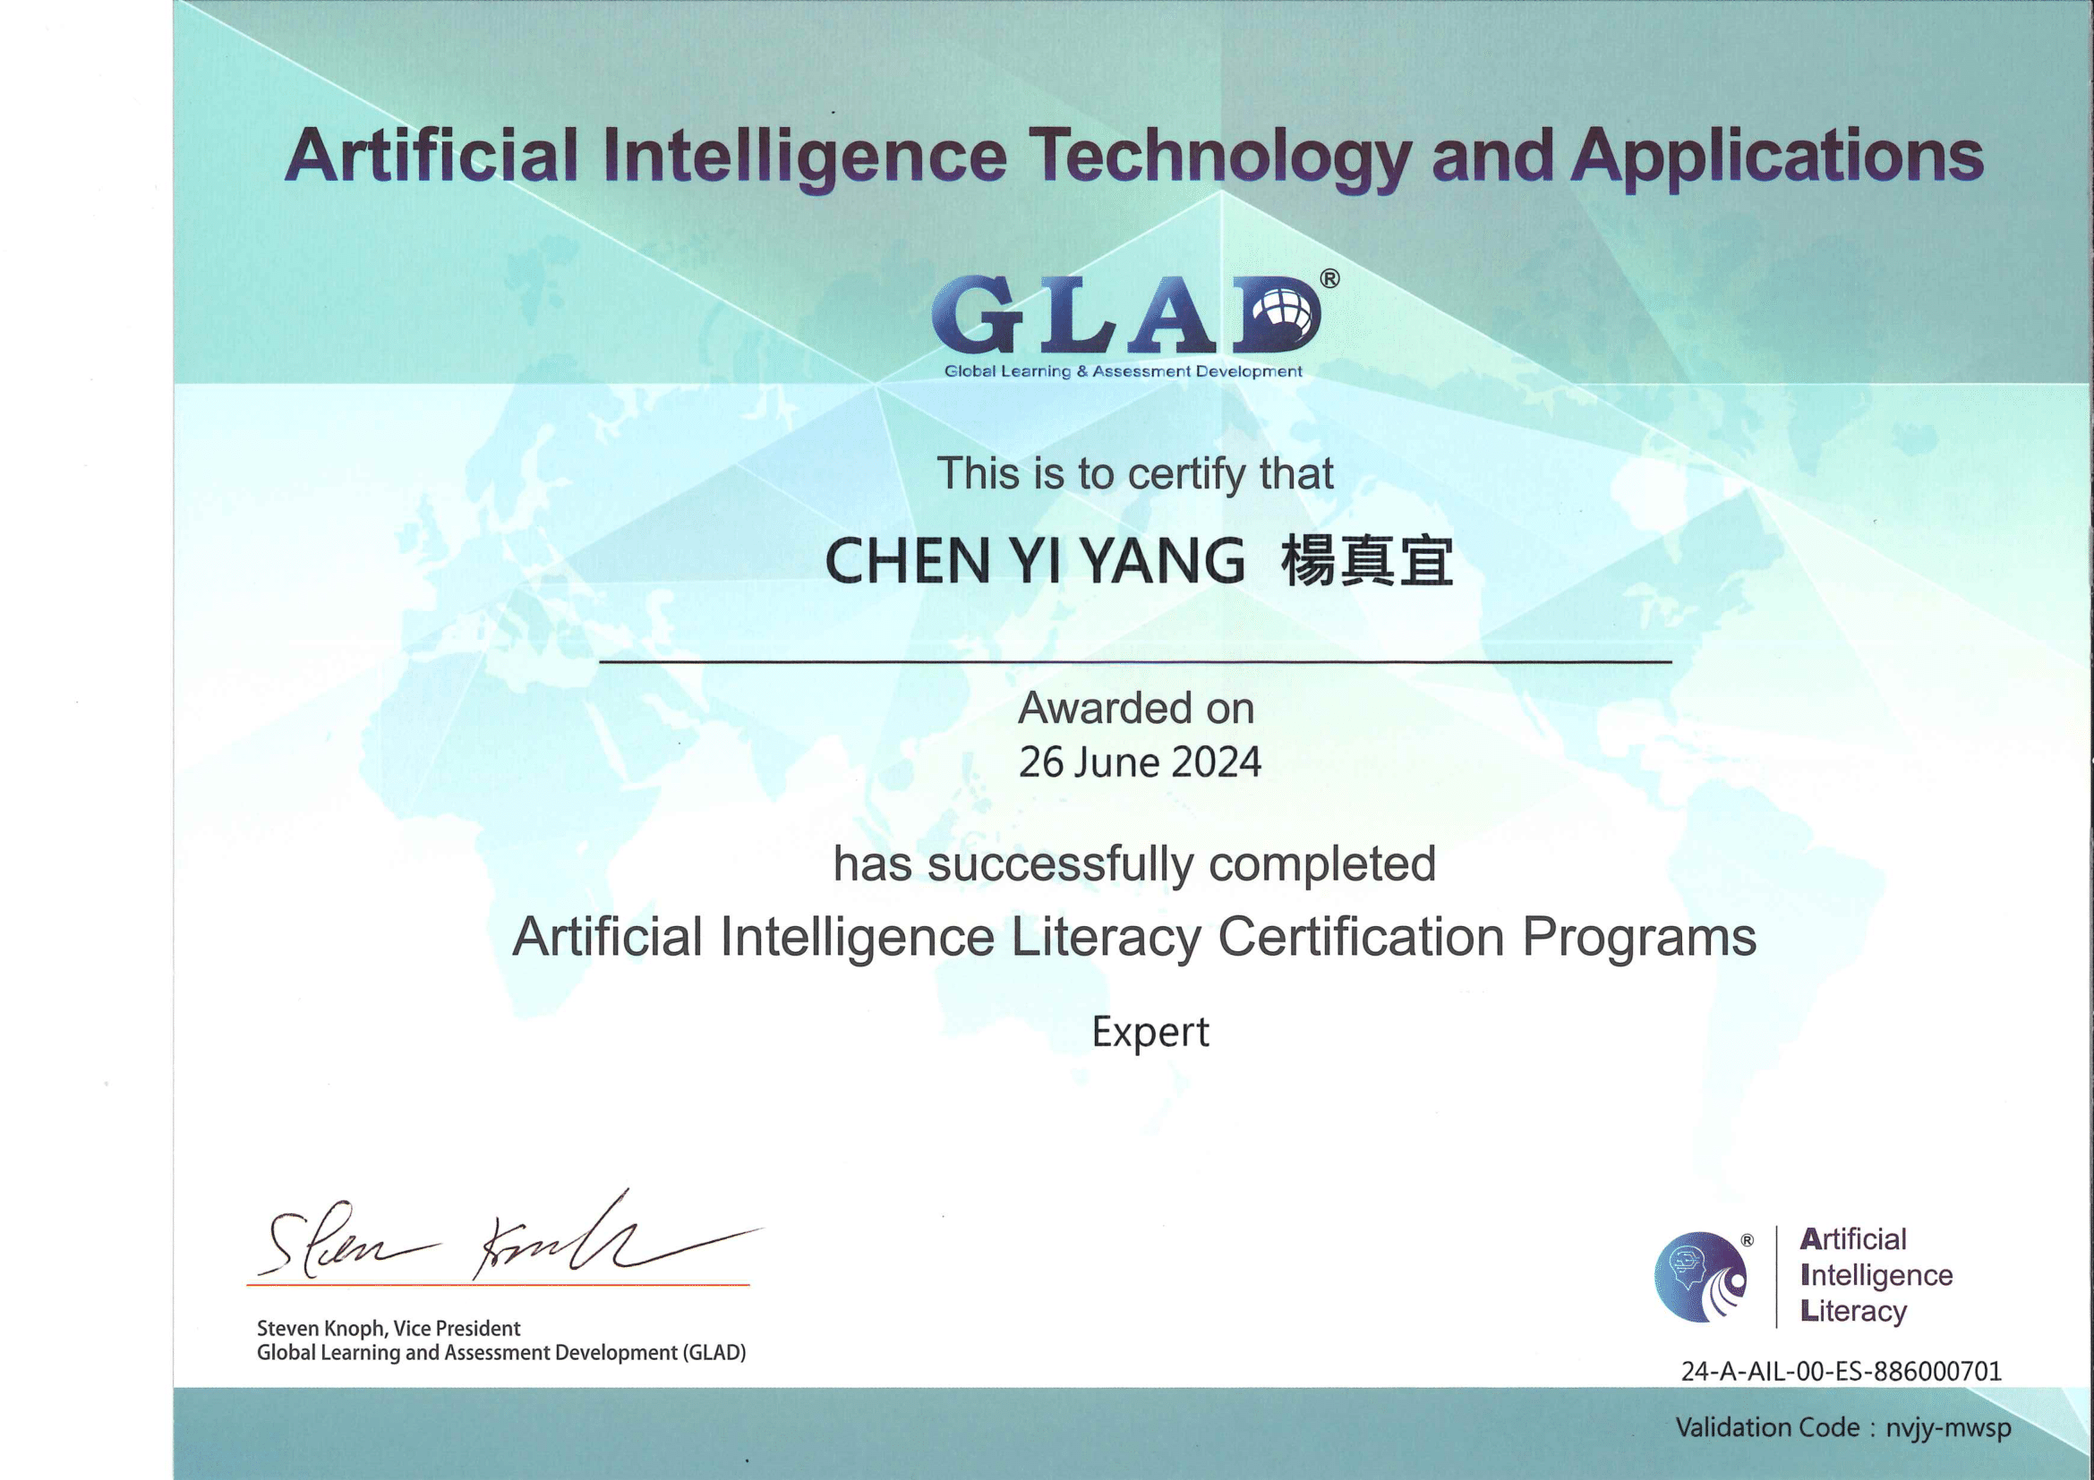
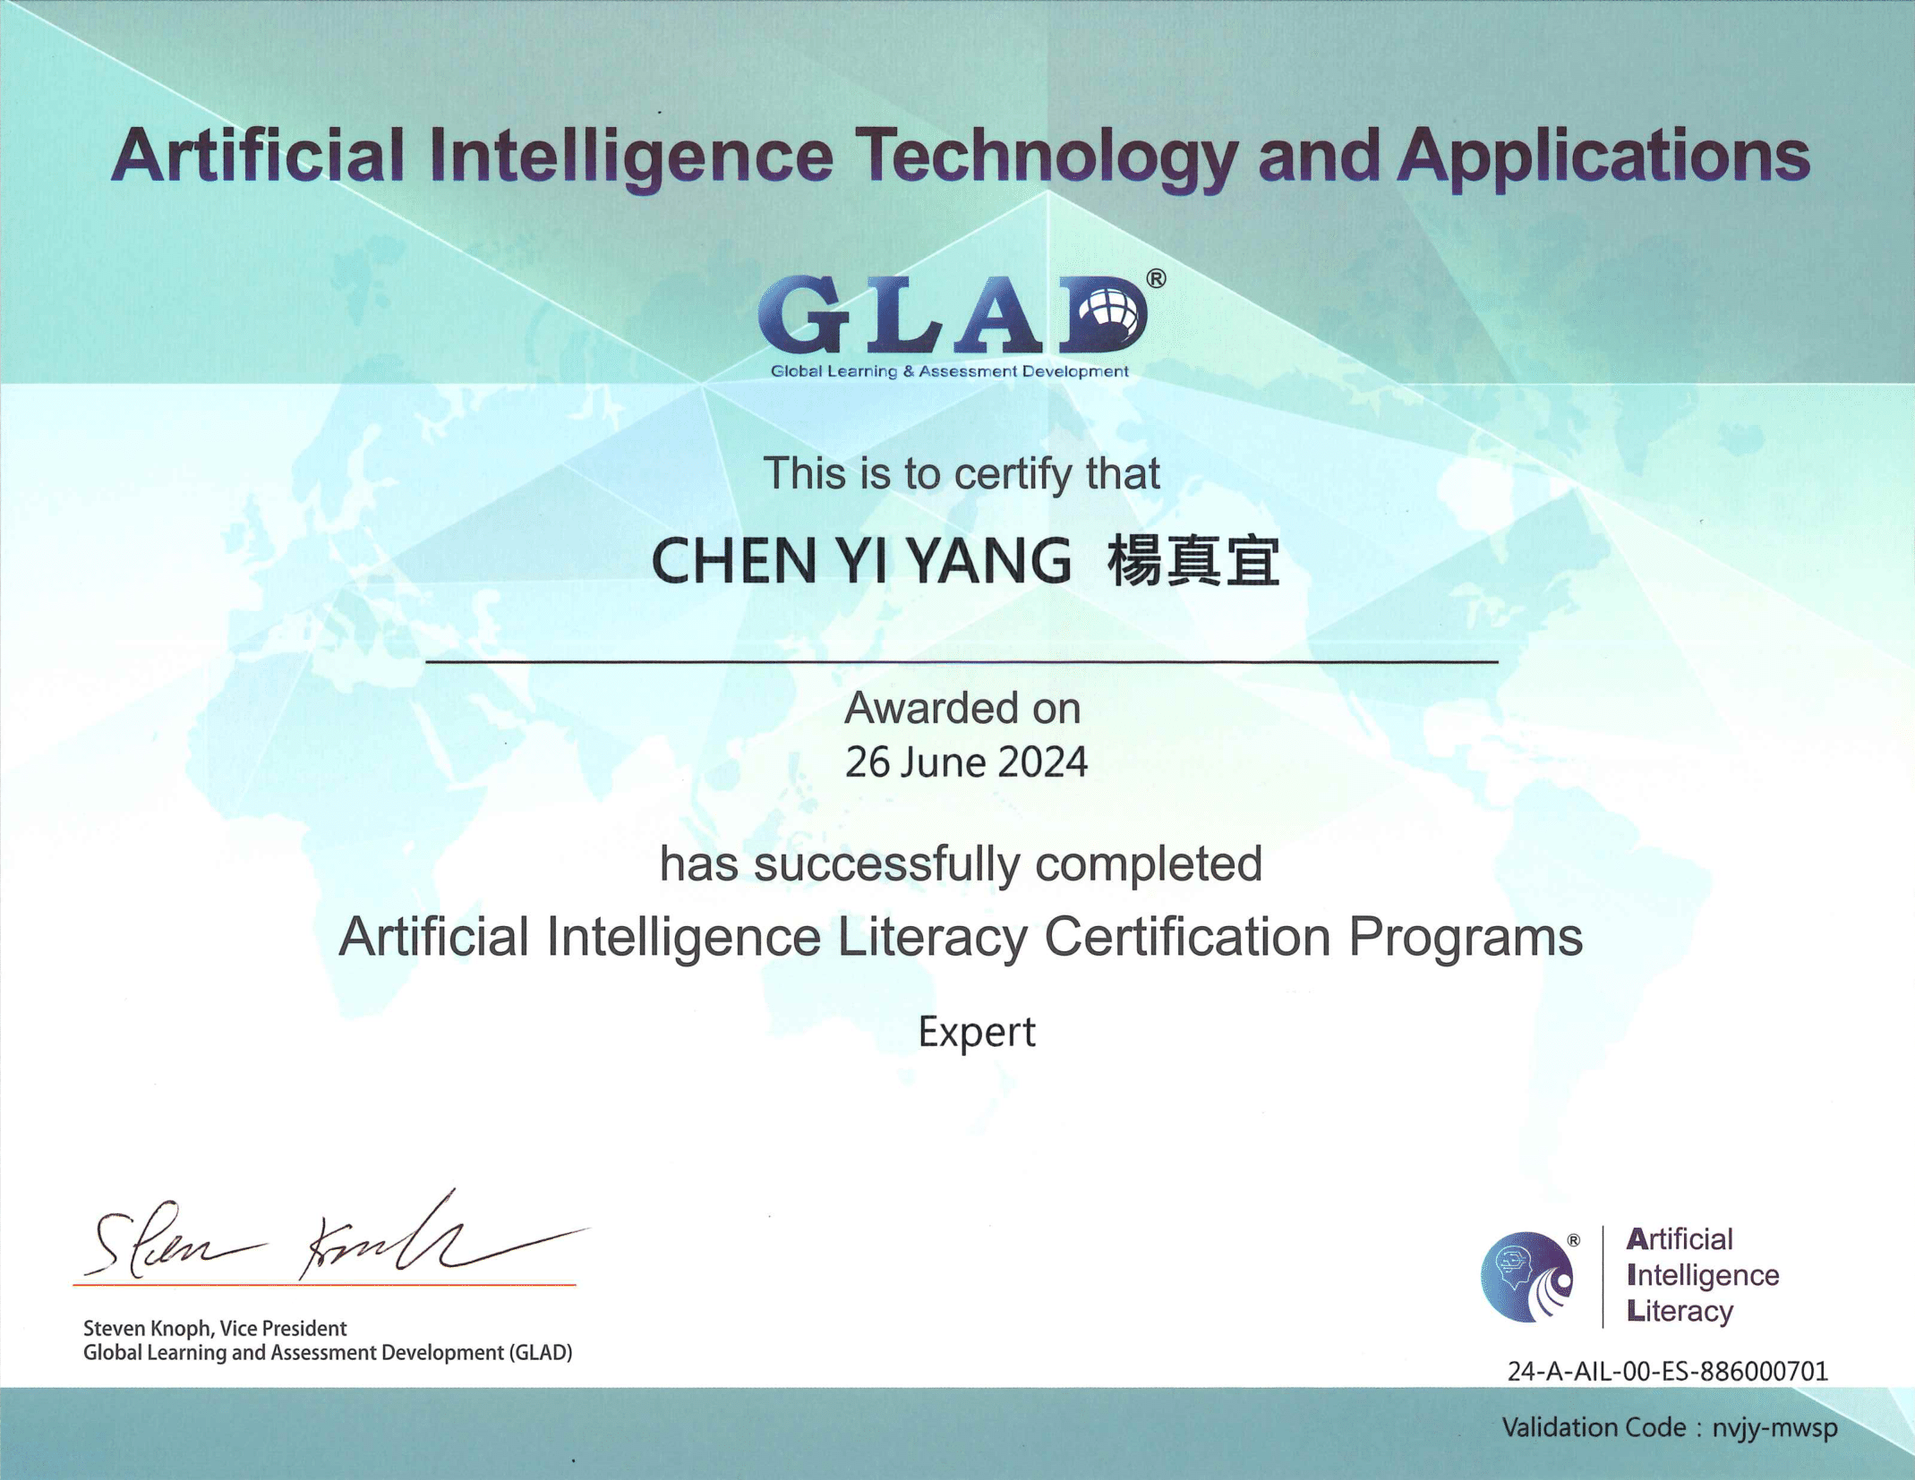
Revise for graduation & showcase

diff --git a/index.html b/index.html
@@ -59,7 +59,7 @@
         <li><a href="#about"><i class="bi bi-person navicon"></i> About</a></li>
         <li><a href="#experiences"><i class="bi bi-file-earmark-text navicon"></i> Experiences</a></li>
         <li><a href="#achievements"><i class="bi bi-hdd-stack navicon"></i> Achievements</a></li>
-        <li><a href="#guides"><i class="bi bi-images navicon"></i> Guides</a></li>
+        <li><a href="#showcase"><i class="bi bi-images navicon"></i> Showcase</a></li>
         <li><a href="#contact"><i class="bi bi-envelope navicon"></i> Contact</a></li>
         <li><a href="#"><i class="bi bi-speedometer navicon"></i> <img src="https://counter6.optistats.ovh/private/freecounterstat.php?c=9urna2e6ypgtlf1ypah5sh2n81g67u41" border="0" width="120"></a></li>
       </ul>
@@ -306,7 +306,7 @@
             <div class="icon flex-shrink-0"><i class="bi bi-book"></i></div>
             <div>
               <h4 class="title"><a href="publication-details.html" class="stretched-link">學術發表</a></h4>
-              <p class="description">Karen 的學術發表與研究成果，涵蓋社會語言學與語言政策規劃等領域，著重於語言使用、身份認同及語言振興相關議題，分享其在學術研究中的重要見解。</p>
+              <p class="description">Karen 的學術發表涵蓋台灣新南向政策與東南亞語言人才培育、新住民子女語言現況與角色等主題。並在多場國際研討會上分享關於台灣原住民語言流失與復振、客家年輕世代語言活力與傳承等研究成果，為語言學與文化研究領域做出重要貢獻。<code>[點選了解]</code></p>
             </div>
           </div>
 
@@ -318,11 +318,19 @@
             </div>
           </div>
 
+          <div class="col-lg-4 col-md-6 service-item d-flex" data-aos="fade-up" data-aos-delay="600">
+            <div class="icon flex-shrink-0"><i class="bi bi-box"></i></div>
+            <div>
+              <h4 class="title"><a href="graduation-details.html" class="stretched-link">學生專題</a></h4>
+              <p class="description">Karen 帶領學生們的畢業專題論文列表，涵蓋台灣大學生台語學習與文化認同、應用英語系學生英語口說焦慮潛在成因探討、台灣新二代的語言保留與習得等主題。展現了在語言學習、文化認同與多元文化教育方面的專業指導能力。<code>[點選了解]</code></p>
+            </div>
+          </div>
+
           <div class="col-lg-4 col-md-6 service-item d-flex" data-aos="fade-up" data-aos-delay="300">
             <div class="icon flex-shrink-0"><i class="bi bi-card-checklist"></i></div>
             <div>
               <h4 class="title"><a href="project-details.html" class="stretched-link">研究計畫</a></h4>
-              <p class="description">Karen 參與的研究與專案，內容涵蓋語言政策、語言振興及社會語言學相關實務計劃，展示其在推動語言保護與多語文化發展中的實際貢獻與影響。</p>
+              <p class="description">Karen 主持並參與多項重要計畫，例如領導教育部「人文社會與產業實務創新鏈結計畫」、參與科技部人文創新與社會實踐、台灣閩南語的歷時演變研究、以及瀕危雅美語的保存與數位化建構等計畫，展現其在語言學與社會實踐領域的深厚造詣。<code>[點選了解]</code></p>
             </div>
           </div>
 
@@ -330,7 +338,7 @@
             <div class="icon flex-shrink-0"><i class="bi bi-arrow-repeat"></i></div>
             <div>
               <h4 class="title"><a href="cooperation-details.html" class="stretched-link">產學合作</a></h4>
-              <p class="description">Karen 的產學合作與專案經驗，涵蓋多項跨領域研究與合作計畫。內容強調其在語言研究、教育推廣及產業合作中的貢獻與參與，展現多元合作模式與成果。</p>
+              <p class="description">Karen 積極推動產學合作，主持多項英語補習教育實務人才培育計畫，並與台中市多家英語補習機構合作，包括互動美語北屯分公司、佳音太平分校、夏恩英語、芝麻街美語、新高穩瑩、獅子王等，致力於培育英語教育實務人才，提升英語教學品質。<code>[點選了解]</code></p>
             </div>
           </div>
 
@@ -338,15 +346,7 @@
             <div class="icon flex-shrink-0"><i class="bi bi-chat-left-dots"></i></div>
             <div>
               <h4 class="title"><a href="work-details.html" class="stretched-link">工作經歷</a></h4>
-              <p class="description">Karen 的過往工作經歷，涵蓋參與計畫與教學課程等相關描述，展現其在教育與學術的豐富經歷、多元貢獻與專業背景。</p>
-            </div>
-          </div>
-
-          <div class="col-lg-4 col-md-6 service-item d-flex" data-aos="fade-up" data-aos-delay="600">
-            <div class="icon flex-shrink-0"><i class="bi bi-box"></i></div>
-            <div>
-              <h4 class="title"><a href="licenses-certificates.html" class="stretched-link">專利/證照/證書</a></h4>
-              <p class="description">Karen 取得的專業證照與認證，包括新型專利、教師證書、語言能力與人工智慧相關的資格，彰顯其在語言教育與專業領域的深厚實力。</p>
+              <p class="description">Karen 曾於多所大學擔任教職與研究職位，包括國立清華大學、中山大學、彰化師範大學、高雄科技大學等。其職責涵蓋科學教育計畫之規劃、智慧城鄉創生研究、英語教學，以及社區記憶與創新轉型等領域，展現其在教育與研究上的多元專業。<code>[點選了解]</code></p>
             </div>
           </div>
 
@@ -356,12 +356,12 @@
 
     </section><!-- /Achievements Section -->
 
-    <!-- Guides Section -->
-    <section id="guides" class="portfolio section light-background">
+    <!-- Showcase Section -->
+    <section id="showcase" class="portfolio section light-background">
 
       <!-- Section Title -->
       <div class="container section-title" data-aos="fade-up">
-        <h2>指導 Guides</h2>
+        <h2>展示區 Showcase</h2>
         <p>(TBD) Magnam dolores commodi suscipit. Necessitatibus eius consequatur ex aliquid fuga eum quidem. Sit sint consectetur velit. Quisquam quos quisquam cupiditate. Et nemo qui impedit suscipit alias ea. Quia fugiat sit in iste officiis commodi quidem hic quas.</p>
       </div><!-- End Section Title -->
 
@@ -375,7 +375,7 @@
             <li data-filter=".filter-branding">Branding</li>
             <li data-filter=".filter-books">Books</li>
             <li data-filter=".filter-guides-contest">競賽指導</li>
-            <li data-filter=".filter-guides-graduation">專題指導</li>
+            <li data-filter=".filter-licenses-certificates">認證/專利/證照</li>
             <li data-filter=".filter-dog">阿弟🐾</li>
           </ul>
 
@@ -393,14 +393,14 @@
               </div>
             </div>
 
-            <div class="col-lg-4 col-md-6 portfolio-item isotope-item filter-guides-graduation">
+            <div class="col-lg-4 col-md-6 portfolio-item isotope-item filter-licenses-certificates">
               <div class="portfolio-content h-100">
-                <img src="assets/img/guides/guide-cover-2.jpg" class="img-fluid" alt="">
+                <img src="assets/img/licenses/AIL-expert.png" class="img-fluid" alt="">
                 <div class="portfolio-info">
-                    <h4>專題指導</h4>
-                    <p>《畢業專題論文指導》🎓📜</p>
-                  <a href="assets/img/guides/guide-zoom-2.jpg" title="畢業專題論文指導 🎓📜" data-gallery="portfolio-gallery-product" class="glightbox preview-link"><i class="bi bi-zoom-in"></i></a>
-                  <a href="graduation-details.html" title="More Details" class="details-link"><i class="bi bi-link-45deg"></i></a>
+                    <h4>認證/專利/證照</h4>
+                    <p>楊真宜老師 - 認證/專利/證照🏅📜</p>
+                  <a href="assets/img/licenses/AIL-expert.png" title="楊真宜老師 - 認證/專利/證照🏅📜" data-gallery="portfolio-gallery-product" class="glightbox preview-link"><i class="bi bi-zoom-in"></i></a>
+                  <a href="licenses-certificates.html" title="More Details" class="details-link"><i class="bi bi-link-45deg"></i></a>
                 </div>
               </div>
             </div>
@@ -501,13 +501,13 @@
               </div>
             </div>
 
-          </div><!-- End Guides Container -->
+          </div><!-- End Showcase Container -->
 
         </div>
 
       </div>
 
-    </section><!-- /Guides Section -->
+    </section><!-- /Showcase Section -->
 
     <!-- Contact Section -->
     <section id="contact" class="contact section">

diff --git a/cooperation-details.html b/cooperation-details.html
@@ -59,7 +59,7 @@
         <li><a href="/#about"><i class="bi bi-person navicon"></i> About</a></li>
         <li><a href="/#experiences"><i class="bi bi-file-earmark-text navicon"></i> Experiences</a></li>
         <li><a href="/#achievements"><i class="bi bi-hdd-stack navicon"></i> Achievements</a></li>
-        <li><a href="/#guides"><i class="bi bi-images navicon"></i> Guides</a></li>
+        <li><a href="/#showcase"><i class="bi bi-images navicon"></i> Showcase</a></li>
         <li><a href="/#contact"><i class="bi bi-envelope navicon"></i> Contact</a></li>
         <li><a href="#"><i class="bi bi-speedometer navicon"></i> <img src="https://counter6.optistats.ovh/private/freecounterstat.php?c=9urna2e6ypgtlf1ypah5sh2n81g67u41" border="0" width="120"></a></li>
       </ul>

diff --git a/graduation-details.html b/graduation-details.html
@@ -59,7 +59,7 @@
         <li><a href="/#about"><i class="bi bi-person navicon"></i> About</a></li>
         <li><a href="/#experiences"><i class="bi bi-file-earmark-text navicon"></i> Experiences</a></li>
         <li><a href="/#achievements"><i class="bi bi-hdd-stack navicon"></i> Achievements</a></li>
-        <li><a href="/#guides"><i class="bi bi-images navicon"></i> Guides</a></li>
+        <li><a href="/#showcase"><i class="bi bi-images navicon"></i> Showcase</a></li>
         <li><a href="/#contact"><i class="bi bi-envelope navicon"></i> Contact</a></li>
         <li><a href="#"><i class="bi bi-speedometer navicon"></i> <img src="https://counter6.optistats.ovh/private/freecounterstat.php?c=9urna2e6ypgtlf1ypah5sh2n81g67u41" border="0" width="120"></a></li>
       </ul>

diff --git a/guide-details.html b/guide-details.html
@@ -59,7 +59,7 @@
         <li><a href="/#about"><i class="bi bi-person navicon"></i> About</a></li>
         <li><a href="/#experiences"><i class="bi bi-file-earmark-text navicon"></i> Experiences</a></li>
         <li><a href="/#achievements"><i class="bi bi-hdd-stack navicon"></i> Achievements</a></li>
-        <li><a href="/#guides"><i class="bi bi-images navicon"></i> Guides</a></li>
+        <li><a href="/#showcase"><i class="bi bi-images navicon"></i> Showcase</a></li>
         <li><a href="/#contact"><i class="bi bi-envelope navicon"></i> Contact</a></li>
         <li><a href="#"><i class="bi bi-speedometer navicon"></i> <img src="https://counter6.optistats.ovh/private/freecounterstat.php?c=9urna2e6ypgtlf1ypah5sh2n81g67u41" border="0" width="120"></a></li>
       </ul>

diff --git a/licenses-certificates.html b/licenses-certificates.html
@@ -59,7 +59,7 @@
         <li><a href="/#about"><i class="bi bi-person navicon"></i> About</a></li>
         <li><a href="/#experiences"><i class="bi bi-file-earmark-text navicon"></i> Experiences</a></li>
         <li><a href="/#achievements"><i class="bi bi-hdd-stack navicon"></i> Achievements</a></li>
-        <li><a href="/#guides"><i class="bi bi-images navicon"></i> Guides</a></li>
+        <li><a href="/#showcase"><i class="bi bi-images navicon"></i> Showcase</a></li>
         <li><a href="/#contact"><i class="bi bi-envelope navicon"></i> Contact</a></li>
         <li><a href="#"><i class="bi bi-speedometer navicon"></i> <img src="https://counter6.optistats.ovh/private/freecounterstat.php?c=9urna2e6ypgtlf1ypah5sh2n81g67u41" border="0" width="120"></a></li>
       </ul>

diff --git a/paticipation-details.html b/paticipation-details.html
@@ -59,7 +59,7 @@
         <li><a href="/#about"><i class="bi bi-person navicon"></i> About</a></li>
         <li><a href="/#experiences"><i class="bi bi-file-earmark-text navicon"></i> Experiences</a></li>
         <li><a href="/#achievements"><i class="bi bi-hdd-stack navicon"></i> Achievements</a></li>
-        <li><a href="/#guides"><i class="bi bi-images navicon"></i> Guides</a></li>
+        <li><a href="/#showcase"><i class="bi bi-images navicon"></i> Showcase</a></li>
         <li><a href="/#contact"><i class="bi bi-envelope navicon"></i> Contact</a></li>
         <li><a href="#"><i class="bi bi-speedometer navicon"></i> <img src="https://counter6.optistats.ovh/private/freecounterstat.php?c=9urna2e6ypgtlf1ypah5sh2n81g67u41" border="0" width="120"></a></li>
       </ul>

diff --git a/portfolio-details.html b/portfolio-details.html
@@ -59,7 +59,7 @@
         <li><a href="/#about"><i class="bi bi-person navicon"></i> About</a></li>
         <li><a href="/#experiences"><i class="bi bi-file-earmark-text navicon"></i> Experiences</a></li>
         <li><a href="/#achievements"><i class="bi bi-hdd-stack navicon"></i> Achievements</a></li>
-        <li><a href="/#guides"><i class="bi bi-images navicon"></i> Guides</a></li>
+        <li><a href="/#showcase"><i class="bi bi-images navicon"></i> Showcase</a></li>
         <li><a href="/#contact"><i class="bi bi-envelope navicon"></i> Contact</a></li>
         <li><a href="#"><i class="bi bi-speedometer navicon"></i> <img src="https://counter6.optistats.ovh/private/freecounterstat.php?c=9urna2e6ypgtlf1ypah5sh2n81g67u41" border="0" width="120"></a></li>
       </ul>

diff --git a/project-details.html b/project-details.html
@@ -59,7 +59,7 @@
         <li><a href="/#about"><i class="bi bi-person navicon"></i> About</a></li>
         <li><a href="/#experiences"><i class="bi bi-file-earmark-text navicon"></i> Experiences</a></li>
         <li><a href="/#achievements"><i class="bi bi-hdd-stack navicon"></i> Achievements</a></li>
-        <li><a href="/#guides"><i class="bi bi-images navicon"></i> Guides</a></li>
+        <li><a href="/#showcase"><i class="bi bi-images navicon"></i> Showcase</a></li>
         <li><a href="/#contact"><i class="bi bi-envelope navicon"></i> Contact</a></li>
         <li><a href="#"><i class="bi bi-speedometer navicon"></i> <img src="https://counter6.optistats.ovh/private/freecounterstat.php?c=9urna2e6ypgtlf1ypah5sh2n81g67u41" border="0" width="120"></a></li>
       </ul>

diff --git a/publication-details.html b/publication-details.html
@@ -59,7 +59,7 @@
         <li><a href="/#about"><i class="bi bi-person navicon"></i> About</a></li>
         <li><a href="/#experiences"><i class="bi bi-file-earmark-text navicon"></i> Experiences</a></li>
         <li><a href="/#achievements"><i class="bi bi-hdd-stack navicon"></i> Achievements</a></li>
-        <li><a href="/#guides"><i class="bi bi-images navicon"></i> Guides</a></li>
+        <li><a href="/#showcase"><i class="bi bi-images navicon"></i> Showcase</a></li>
         <li><a href="/#contact"><i class="bi bi-envelope navicon"></i> Contact</a></li>
         <li><a href="#"><i class="bi bi-speedometer navicon"></i> <img src="https://counter6.optistats.ovh/private/freecounterstat.php?c=9urna2e6ypgtlf1ypah5sh2n81g67u41" border="0" width="120"></a></li>
       </ul>

diff --git a/work-details.html b/work-details.html
@@ -59,7 +59,7 @@
         <li><a href="/#about"><i class="bi bi-person navicon"></i> About</a></li>
         <li><a href="/#experiences"><i class="bi bi-file-earmark-text navicon"></i> Experiences</a></li>
         <li><a href="/#achievements"><i class="bi bi-hdd-stack navicon"></i> Achievements</a></li>
-        <li><a href="/#guides"><i class="bi bi-images navicon"></i> Guides</a></li>
+        <li><a href="/#showcase"><i class="bi bi-images navicon"></i> Showcase</a></li>
         <li><a href="/#contact"><i class="bi bi-envelope navicon"></i> Contact</a></li>
         <li><a href="#"><i class="bi bi-speedometer navicon"></i> <img src="https://counter6.optistats.ovh/private/freecounterstat.php?c=9urna2e6ypgtlf1ypah5sh2n81g67u41" border="0" width="120"></a></li>
       </ul>
